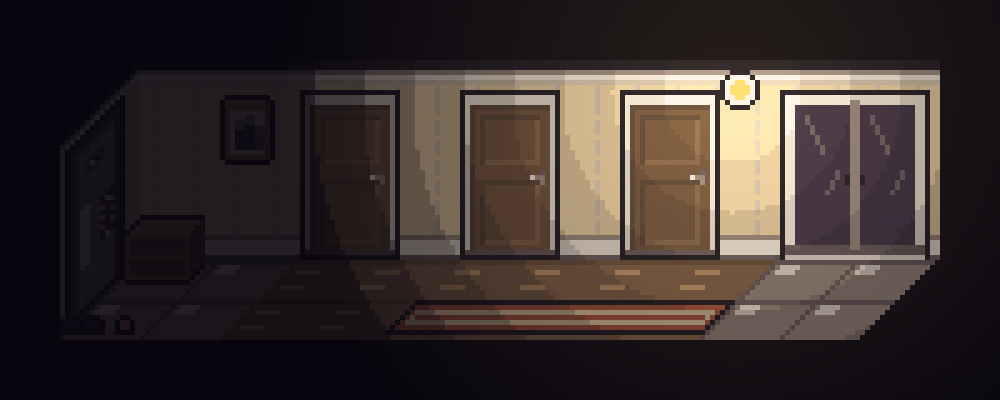
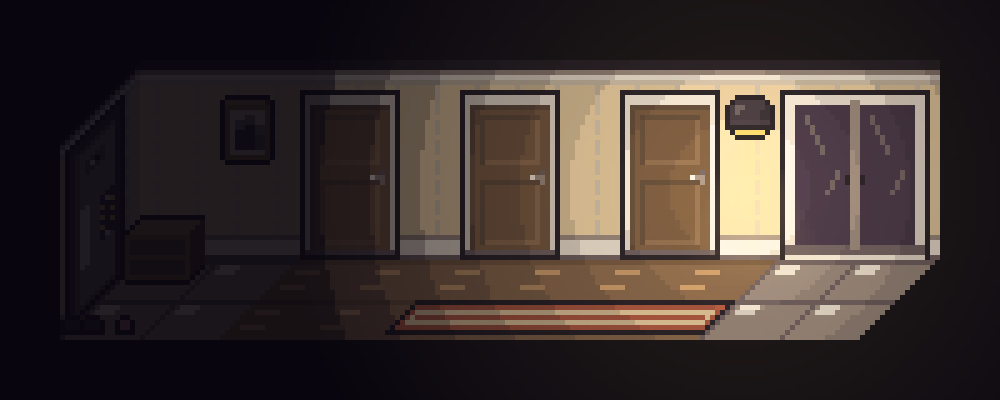
Corridor: modern dark down-light wall lamp centered between last door and balcony, light cone
Claude-Session: https://claude.ai/code/session_01FPZSaKiVNU2zED737yZX4w

diff --git a/tools/render_room.py b/tools/render_room.py
@@ -9,6 +9,18 @@ import render, boxes
 import render_maps as R
 
 SK, SS, T, WALLH, PAD = boxes.SK, boxes.SS, 16, 40, 12
+LIGHT_DY = {'wall_light_kr': 14}      # 아래로 빛을 쏘는 벽등은 빛의 중심을 등 아래로 내린다
+
+def cone(img, cx, y0, h=30):
+    """벽등 아래로 퍼지는 빛의 부채꼴: 벽 색을 따뜻하게 밝힌다."""
+    p = img.load()
+    for dy in range(h):
+        half = 3 + .5 * dy; a = .38 * (1 - dy / h)
+        for x in range(int(cx - half), int(cx + half) + 1):
+            y = y0 + dy
+            if 0 <= x < img.width and 0 <= y < img.height and p[x, y][3]:
+                r, g, b, al = p[x, y]; k = a * (1 - abs(x - cx) / (half + 1))
+                p[x, y] = (int(r + (255 - r) * k), int(g + (226 - g) * k), int(b + (160 - b) * k), al)
 
 def render_room(path, scale=1):
     m = R.load_map(path); lib = R.load_library(); lights = R.load_lights(); boxset = set(boxes.load_all(render.ROOT)); bdepth = {it['name']: max(p[2] + p[5] for p in it['parts'] if p[0] == 'box') for it in boxes.load_boxes(os.path.join(render.ROOT, 'boxes.txt'))}
@@ -60,13 +72,14 @@ def render_room(path, scale=1):
     emitters = []
     def stamp(name, left, bottom):                           # 정면 스프라이트 (왼쪽 아래 모서리 기준)
         sp = lib[name]; img.alpha_composite(sp, (int(round(left)), int(round(bottom - sp.height))))
-        if name in lights: emitters.append((left + sp.width / 2, bottom - sp.height / 2) + lights[name])
+        if name in lights: emitters.append((left + sp.width / 2, bottom - sp.height / 2 + LIGHT_DY.get(name, 0)) + lights[name])
         return sp
     # 뒷벽의 사물
     for r_i, zb in ((base_row, 0), (mid_row, 16), (top_row, 32)):
         for c in range(c0, c1 + 1):
             for obj in leg[rows[r_i][c]][1]:
-                nm, _, lift = obj.partition('^'); stamp(nm, X0 + SK * D + (c - c0) * T, by - zb - int(lift or 0))
+                nm, _, lift = obj.partition('^'); sp_ = stamp(nm, X0 + SK * D + (c - c0) * T, by - zb - int(lift or 0))
+                if nm == 'wall_light_kr': cone(img, X0 + SK * D + (c - c0) * T + 10, by - zb - int(lift or 0), 30)
     # 왼쪽 벽의 사물: 세로 선은 그대로, 깊이 방향은 SK 배로 눌리고 SS 만큼 올라가는 기울임
     for tok in extra.get('left_add', '').split():
         nm, at = tok.split('@'); dc, _, lift = at.partition('^'); d0 = int(float(dc) * T); sp = lib[nm]
